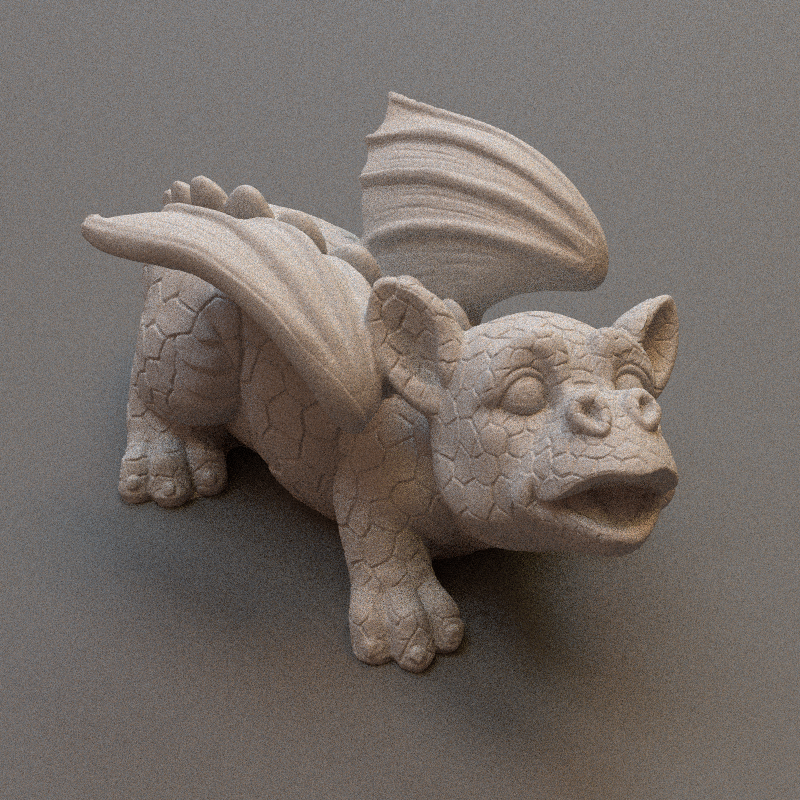
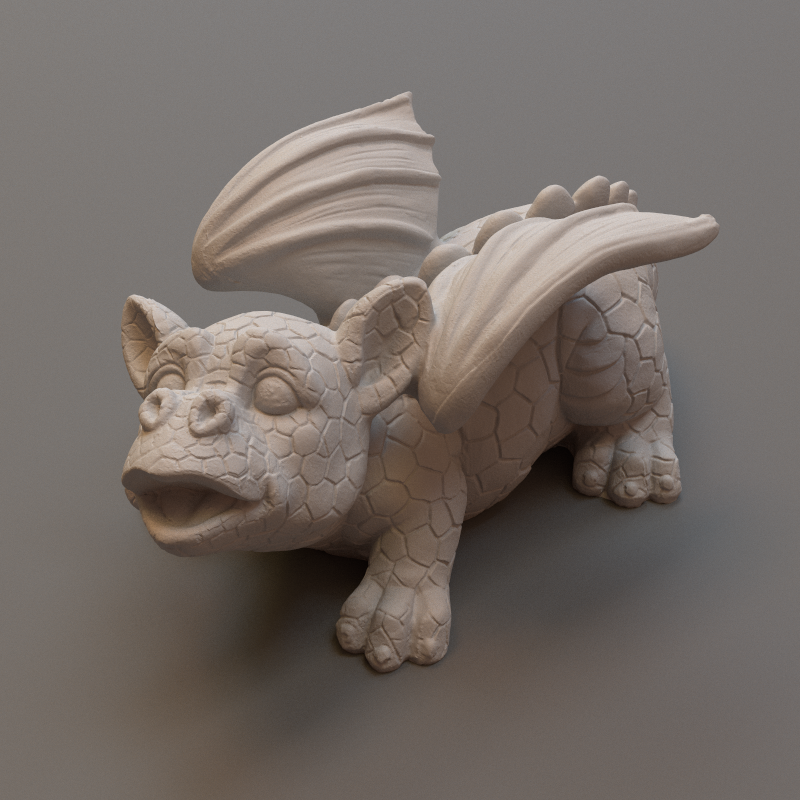
add renderer_config.

diff --git a/rainbow-renderer/importers/image_importer.cpp b/rainbow-renderer/importers/image_importer.cpp
@@ -1,5 +1,7 @@
 #include "image_importer.hpp"
 
+#include "../core/renderer_config.hpp"
+
 #ifdef __IMAGE_IMPORTER__
 
 #define STB_IMAGE_IMPLEMENTATION
@@ -22,10 +24,31 @@ namespace rainbow::renderer::importers {
 		info.height = height;
 		info.data = std::vector<real>(info.width * info.height * 4);
 
-		for (size_t index = 0; index < info.data.size(); index++) {
-			const auto value = static_cast<real>(data[index]) / 255;
+		if (renderer_config::uv_system == coordinate_system::left_hand) {
 
-			info.data[index] = gamma ? inverse_gamma_correct(value) : value;
+			for (size_t index = 0; index < info.data.size(); index++) {
+				const auto value = static_cast<real>(data[index]) / 255;
+
+				info.data[index] = gamma ? inverse_gamma_correct(value) : value;
+			}
+			
+		}else {
+
+			for (size_t y = 0; y < height; y++) {
+				const auto invert_y = height - y - 1;
+
+				for (size_t x = 0; x < width; x++) {
+					const auto index0 = (y * width + x) * 4;
+					const auto index1 = (invert_y * width + x) * 4;
+
+					for (size_t component = 0; component < 4; component++) {
+						const auto value = static_cast<real>(data[index1 + component]) / 255;
+
+						info.data[index0 + component] = gamma ? inverse_gamma_correct(value) : value;
+					}
+				}
+			}
+			
 		}
 
 		stbi_image_free(data);
@@ -47,9 +70,31 @@ namespace rainbow::renderer::importers {
 		info.height = height;
 		info.data = std::vector<real>(info.width * info.height * 4);
 
-		for (size_t index = 0; index < info.data.size(); index++)
-			info.data[index] = gamma ? inverse_gamma_correct(data[index]) : data[index];
 
+		if (renderer_config::uv_system == coordinate_system::left_hand) {
+
+			for (size_t index = 0; index < info.data.size(); index++)
+				info.data[index] = gamma ? inverse_gamma_correct(data[index]) : data[index];
+
+		}else {
+
+			for (size_t y = 0; y < height; y++) {
+				const auto invert_y = height - y - 1;
+
+				for (size_t x = 0; x < width; x++) {
+					const auto index0 = (y * width + x) * 4;
+					const auto index1 = (invert_y * width + x) * 4;
+
+					for (size_t component = 0; component < 4; component++) {
+						const auto value = data[index1 + component];
+
+						info.data[index0 + component] = gamma ? inverse_gamma_correct(value) : value;
+					}
+				}
+			}
+			
+		}
+			
 		stbi_image_free(data);
 
 		return info;

diff --git a/rainbow-renderer/converter/convert_camera.cpp b/rainbow-renderer/converter/convert_camera.cpp
@@ -5,8 +5,13 @@
 #include "rainbow/cameras/perspective_camera.hpp"
 #include "rainbow/shared/logs/log.hpp"
 
+#include "../core/renderer_config.hpp"
+
 #include "convert_transform.hpp"
 #include "convert_filter.hpp"
+
+#undef near
+#undef far
 
 namespace rainbow::renderer::converter {
 
@@ -27,11 +32,18 @@ namespace rainbow::renderer::converter {
 		const std::shared_ptr<metascene::cameras::perspective_camera>& camera,
 		const std::shared_ptr<metascene::cameras::film>& film)
 	{
-		const auto system = camera->system == metascene::cameras::coordinate_system::right_hand ?
-			cameras::coordinate_system::right_hand : cameras::coordinate_system::left_hand;
+		const auto width = static_cast<real>(film->width);
+		const auto height = static_cast<real>(film->height);
+		const auto fov = radians(camera->fov);
 		
-		return std::make_shared<perspective_camera>(
-			create_film(film), read_transform(camera->transform), system, radians(camera->fov));
+		const auto projective =
+			renderer_config::camera_system == coordinate_system::right_hand ?
+			perspective_right_hand(fov, width, height, camera->near, camera->far) :
+			perspective_left_hand(fov, width, height, camera->near, camera->far);
+
+		const auto screen_window = bound2(vector2(-1), vector2(1));
+
+		return std::make_shared<perspective_camera>(create_film(film), screen_window, projective, read_transform(camera->transform));
 	}
 	
 	std::shared_ptr<camera> create_camera(

diff --git a/rainbow-renderer/main.cpp b/rainbow-renderer/main.cpp
@@ -7,13 +7,16 @@ int main() {
 	//const auto scene = renderer::importers::import_mitsuba_scene("./../scenes/cbox/cbox.xml");
 	//const auto scene = renderer::importers::import_mitsuba_scene("./../scenes/veach_mi/mi.xml");
 	//const auto scene = renderer::importers::import_pbrt_scene("./../scenes/dragon/f8-10.pbrt");
-	//const auto scene = renderer::importers::import_pbrt_scene("./../scenes/xyz-test/xyz-test.pbrt");
-	const auto scene = renderer::importers::import_pbrt_scene("./../scenes/structuresynth/metal.pbrt");
+	//const auto scene = renderer::importers::import_pbrt_scene("./../scenes/structuresynth/metal.pbrt");
 	//const auto scene = renderer::importers::import_pbrt_scene("./../scenes/structuresynth/arcsphere.pbrt");
 	//const auto scene = renderer::importers::import_pbrt_scene("./../scenes/structuresynth/microcity.pbrt");
-	//const auto scene = renderer::importers::import_pbrt_scene("./../scenes/lte-orb/lte-orb-silver.pbrt");
+	const auto scene = renderer::importers::import_pbrt_scene("./../scenes/lte-orb/lte-orb-silver.pbrt");
 	//const auto scene = renderer::importers::import_pbrt_scene("./../scenes/yeahright/yeahright.pbrt");
 
+
+	//const auto scene = renderer::importers::import_pbrt_scene("./../scenes/basic-test/xyz-test.pbrt");
+	//const auto scene = renderer::importers::import_pbrt_scene("./../scenes/basic-test/uv-test.pbrt");
+	
 	scene.render_to("image");
 
 	system("pause");

diff --git a/rainbow-renderer/core/renderer_config.hpp b/rainbow-renderer/core/renderer_config.hpp
@@ -1,0 +1,35 @@
+#pragma once
+
+#include "rainbow/shared/utilities.hpp"
+
+namespace rainbow {
+
+	namespace renderer {
+		
+		/*
+		 * in uv coordinate system
+		 * right hand is :
+		 * (0, 1) --- (1, 1)
+		 * |               |
+		 * |               |
+		 * (0, 0) --- (1, 0)
+		 * left hand is :
+		 * (0, 0) --- (1, 0)
+		 * |               |
+		 * |               |
+		 * (0, 1) --- (1, 1)
+		 */
+		enum class coordinate_system : uint32 {
+			right_hand = 0,
+			left_hand = 1
+		};
+		
+		struct renderer_config final {
+			renderer_config() = delete;
+
+			static inline coordinate_system camera_system = coordinate_system::right_hand;
+			static inline coordinate_system uv_system = coordinate_system::left_hand;
+		};
+		
+	}
+}

diff --git a/rainbow-renderer/importers/pbrt_importer.cpp b/rainbow-renderer/importers/pbrt_importer.cpp
@@ -1,5 +1,7 @@
 #include "pbrt_importer.hpp"
 
+#include "../core/renderer_config.hpp"
+
 #include "rainbow/shared/logs/log.hpp"
 
 #ifdef __PBRT_IMPORTER__
@@ -7,6 +9,9 @@
 rainbow::renderer::renderer_scene rainbow::renderer::importers::import_pbrt_scene(const std::string& filename)
 {
 	const auto meta_scene = metascene::importers::pbrt::import_pbrt_scene(filename);
+
+	renderer_config::camera_system = coordinate_system::left_hand;
+	renderer_config::uv_system = coordinate_system::right_hand;
 	
 	return create_from_meta_scene(meta_scene);
 }

diff --git a/rainbow-renderer/core/renderer_config.cpp b/rainbow-renderer/core/renderer_config.cpp
@@ -1,0 +1,1 @@
+#include "renderer_config.hpp"
